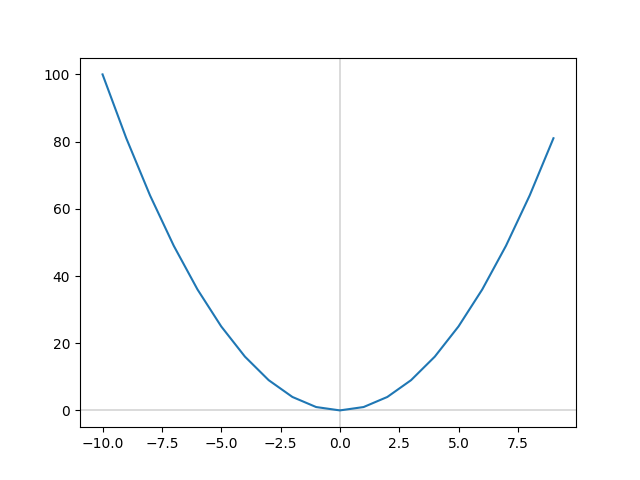
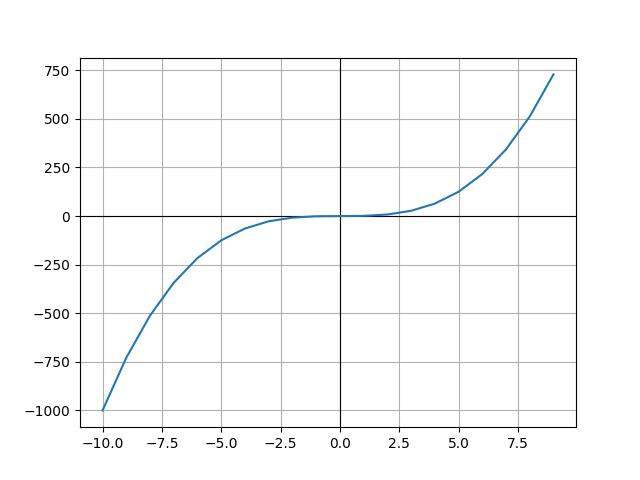
fixing html

diff --git a/templates/base.html b/templates/base.html
@@ -2,29 +2,34 @@
 <html lang="en">
 <head>
     <meta charset="UTF-8">
-    <title>Title</title>
+    <title>GrafServer</title>
 </head>
 <body>
-    <p><img src="static/graf_picture.png"></p>
+    <p><img src="static/graf_picture.png" alt="хз лол"></p>
     <form action="/t" method="post">
-        <input type="text" id="name" name="name" style="margin:4px 0px 4px"/>
+        <input type="text" id="name" name="name" style="margin:4px 0px 4px; position: absolute; top: 516px; left: 20px;"/>
     </form>
-
     <form action="/PLUS" method="post">
   <button id="RBtn" name="PlusBtn" type="submit" style="position: absolute; top: 520px; left: 200px;">+</button>
 </form>
 {% if g_num == 2 %}
         <form action="/t" method="post">
-        <input type="text" id="name1" name="name1" style="margin:4px 0px 4px"/>
+        <input type="text" id="name1" name="name1" style="margin:4px 0px 4px; position: absolute; top: 546px; left: 20px;"/>
     </form>
+    <form action="/REMOVE" method="post">
+  <button id="REMBut1" name="PlusBtn" type="submit" style="position: absolute; top: 520px; left: 240px;">+</button>
+</form>
 {% elif g_num == 3 %}
     <form action="/t" method="post">
-        <input type="text" id="name2.0" name="name2.0" style="margin:4px 0px 4px"/>
+        <input type="text" id="name2.0" name="name2.0" style="margin:4px 0px 4px;position: absolute; top: 546px; left: 20px;"/>
     </form>
     <form action="/t" method="post">
-        <input type="text" id="name2.1" name="name2.1" style="margin:4px 0px 4px"/>
+        <input type="text" id="name2.1" name="name2.1" style="margin:4px 0px 4px; position: absolute; top: 576px; left: 20px;"/>
     </form>
+    <form action="/REMOVE" method="post">
+  <button id="REMBut2" name="PlusBtn" type="submit" style="position: absolute; top: 520px; left: 240px;">+</button>
+</form>
 {% endif %}
-<p>{{text}}</p>
+<!--<p>{{text}}</p>-->
 </body>
 </html>

diff --git a/main.py b/main.py
@@ -1,19 +1,22 @@
 import matplotlib
+import numpy as np
 from flask import *
-
-matplotlib.use('Agg')
 import matplotlib.pyplot as plt
 import os
+
+matplotlib.use('Agg')
 
 text = None
 app = Flask(__name__)
 
 graf_num = 1
 
+
 def create_graf(x_l, y_l):
     plt.clf()
-    plt.axhline(0, color='black', linewidth=0.2)
-    plt.axvline(0, color='black', linewidth=0.2)
+    plt.axhline(0, color='black', linewidth=0.8)
+    plt.axvline(0, color='black', linewidth=0.8)
+    plt.grid()
     plt.plot(x_l, y_l)
     try:
         os.remove("static/graf_picture.png")
@@ -37,7 +40,7 @@ def show_text():
         t = text.replace("x", f"({str(i)})")
         y = eval(t)
         y_lst.append(y)
-    print(x_lst, y_lst)
+    # print(x_lst, y_lst)
     create_graf(x_lst, y_lst)
     return render_template('base.html', text=graf_num)
 
